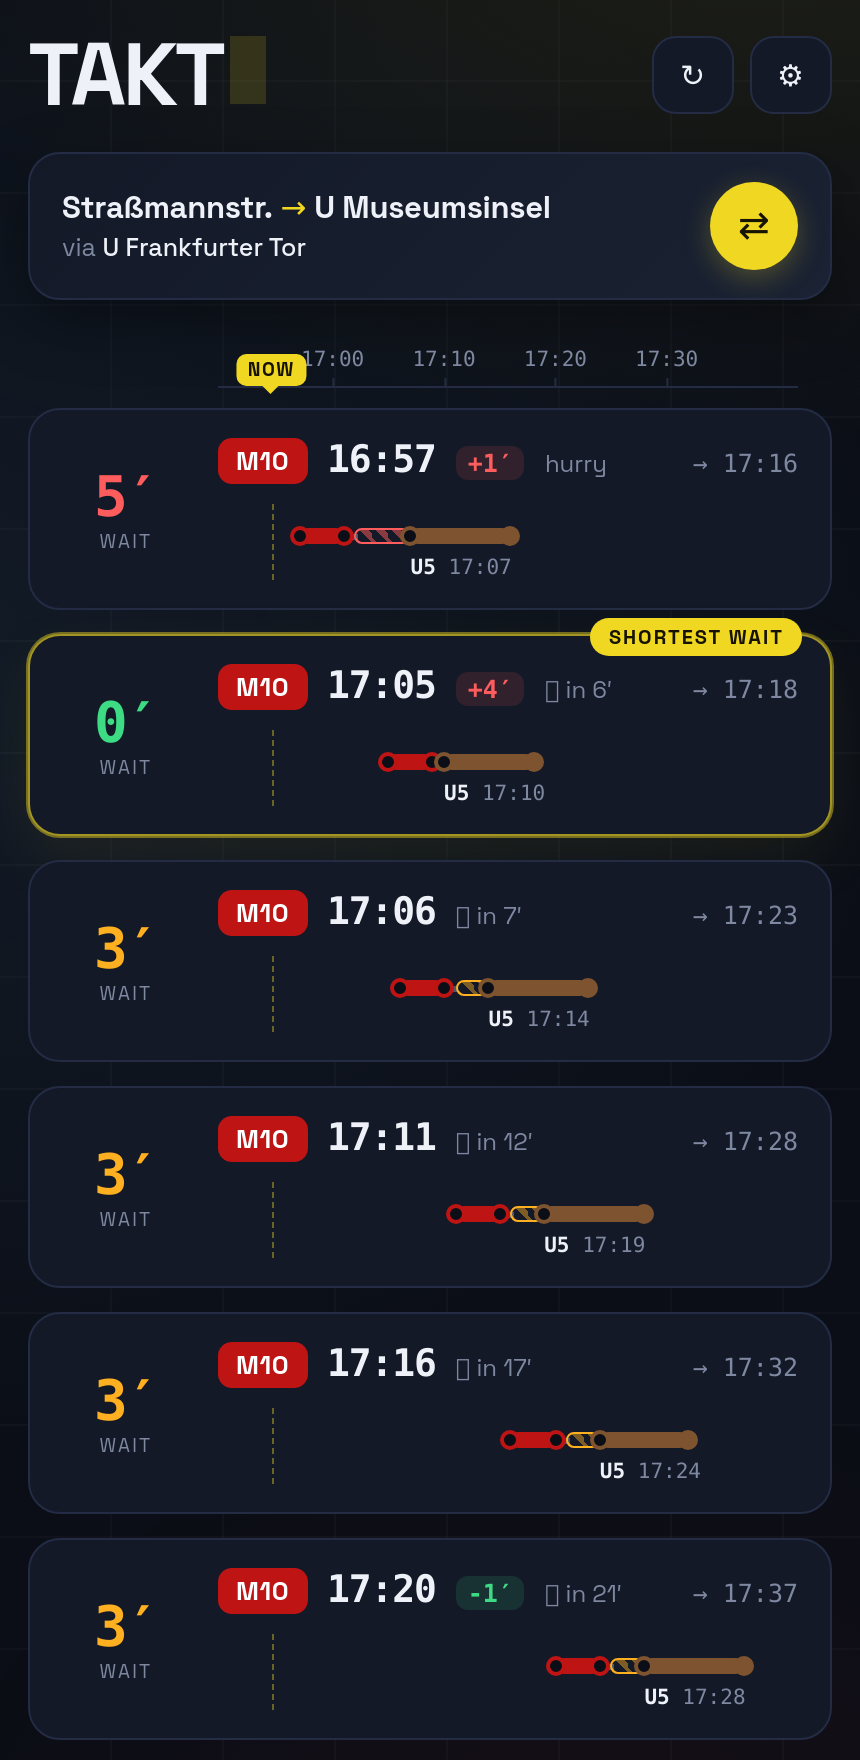
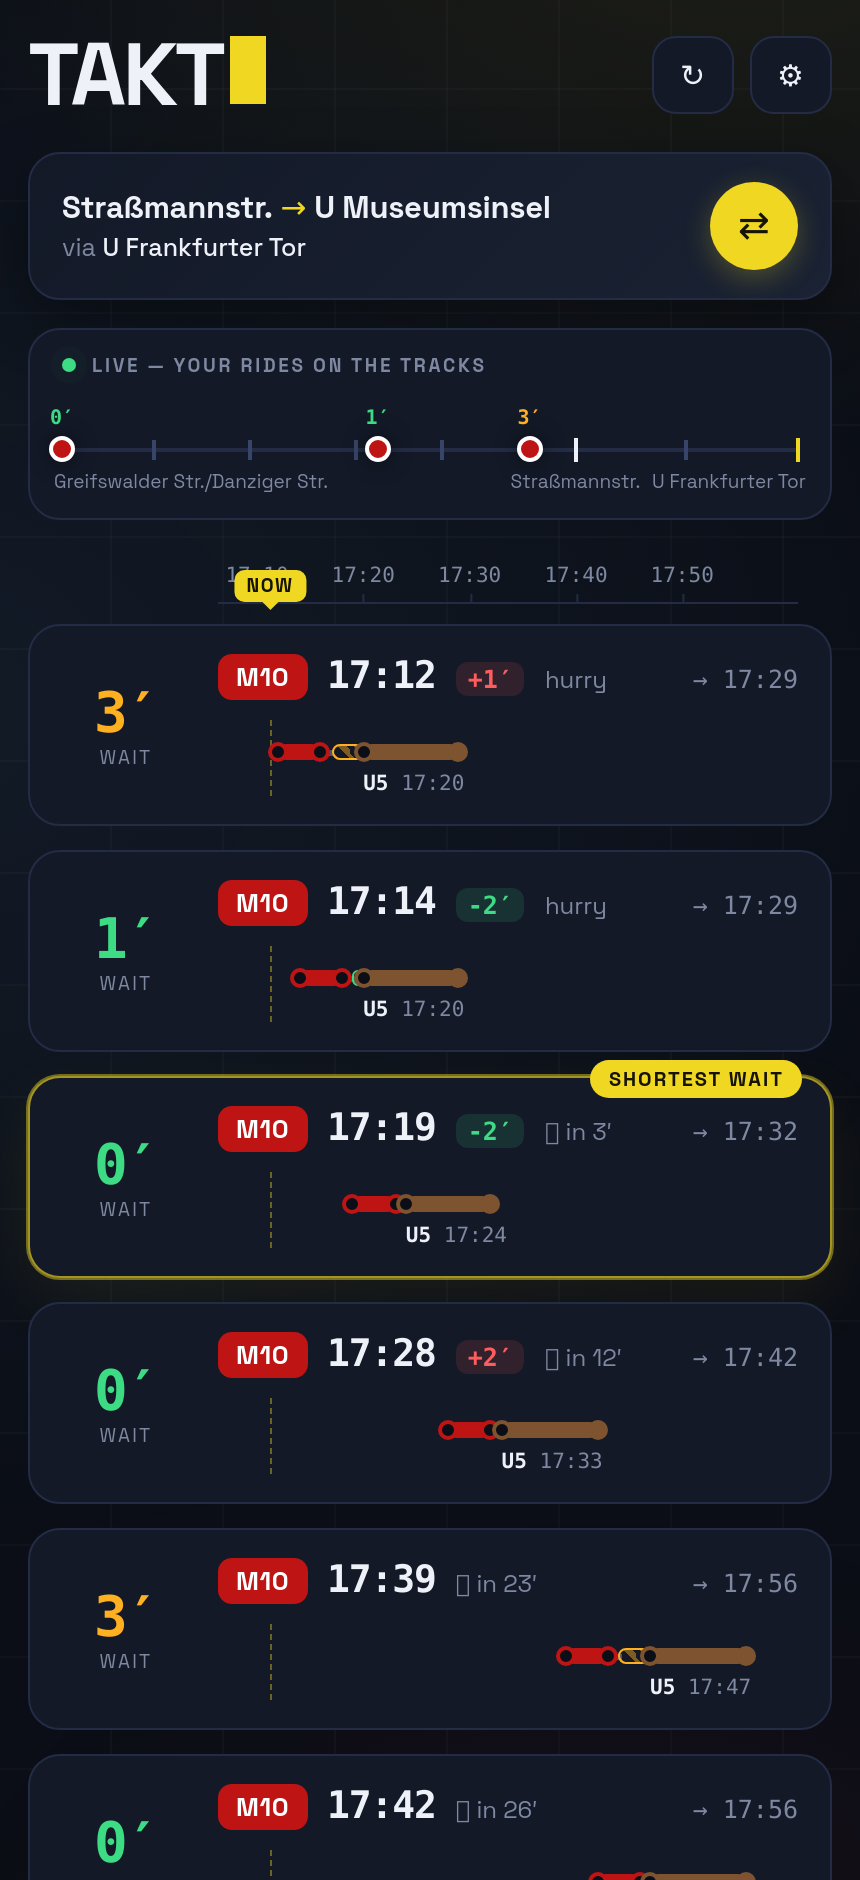
Add live vehicle radar and disruption alerts
Radar: the first leg's stop sequence becomes a schematic track; live
GPS positions from /radar (polled every 15s, bbox around the corridor)
are projected onto it. Only trips already on the board are shown, each
dot labelled with the transfer wait it yields.

Alerts: warning-type remarks from either leg render as an expandable
amber banner above the board, deduped, hints filtered out.

diff --git a/index.html b/index.html
@@ -89,6 +89,49 @@
   }
   .swap:active { transform: rotate(180deg) scale(.94); }
 
+  /* ———— disruption alerts ———— */
+  .alert {
+    background: rgba(255,176,32,.08); border: 1px solid rgba(255,176,32,.35);
+    border-radius: 12px; padding: 9px 13px; margin-bottom: 10px;
+    font-size: 12.5px; color: var(--amber); line-height: 1.5;
+  }
+  .alert summary { cursor: pointer; font-weight: 500; list-style: none; }
+  .alert summary::-webkit-details-marker { display: none; }
+  .alert p { color: var(--muted); margin-top: 7px; }
+
+  /* ———— live radar ———— */
+  .radar {
+    background: var(--card); border: 1px solid var(--line); border-radius: 16px;
+    padding: 12px 16px 4px; margin-bottom: 12px;
+  }
+  .radar-head {
+    font-size: 9.5px; font-weight: 700; letter-spacing: .14em; color: var(--muted);
+    display: flex; align-items: center; gap: 8px;
+  }
+  .rdot { width: 7px; height: 7px; border-radius: 50%; background: var(--green); animation: pulse 2s infinite; }
+  @keyframes pulse { 0%,100% { box-shadow: 0 0 0 0 rgba(61,220,132,.5); } 60% { box-shadow: 0 0 0 6px rgba(61,220,132,0); } }
+  .radar-track { position: relative; height: 58px; margin-top: 8px; }
+  .rrail { position: absolute; left: 0; right: 0; top: 27px; height: 2px; background: var(--line); border-radius: 1px; }
+  .rtick { position: absolute; top: 23px; width: 2px; height: 10px; background: #39446a; transform: translateX(-50%); }
+  .rtick.major { background: var(--text); height: 12px; top: 22px; }
+  .rtick.via2 { background: var(--yellow); }
+  .rlbl {
+    position: absolute; top: 38px; transform: translateX(-50%);
+    font-size: 9.5px; color: var(--muted); white-space: nowrap; max-width: 40%;
+    overflow: hidden; text-overflow: ellipsis;
+  }
+  .rlbl.first { transform: translateX(-4px); }
+  .rlbl.last { transform: translateX(calc(-100% + 4px)); }
+  .radar-dot {
+    position: absolute; top: 21px; width: 13px; height: 13px; border-radius: 50%;
+    border: 2px solid #fff; transform: translateX(-50%); z-index: 2;
+    transition: left 2.5s linear; box-shadow: 0 0 10px rgba(0,0,0,.5);
+  }
+  .radar-dot .wl {
+    position: absolute; top: -16px; left: 50%; transform: translateX(-50%);
+    font-size: 10px; font-weight: 700; font-family: var(--mono);
+  }
+
   /* ———— time ruler ———— */
   .ruler {
     /* left/right margins line the ruler up with the strand column inside the cards:
@@ -235,8 +278,8 @@
   footer a { color: var(--muted); }
 
   @media (prefers-reduced-motion: reduce) {
-    .blink, .relmin.urgent, .skel::after { animation: none !important; }
-    .card, .swap, .iconbtn { transition: none; }
+    .blink, .relmin.urgent, .skel::after, .rdot { animation: none !important; }
+    .card, .swap, .iconbtn, .radar-dot { transition: none; }
   }
 </style>
 </head>
@@ -303,6 +346,11 @@
         <div class="via">via <b id="lblVia"></b></div>
       </div>
       <button class="swap" id="btnSwap" title="Swap direction" aria-label="Swap direction">⇄</button>
+    </div>
+    <div id="alerts" style="display:none"></div>
+    <div id="radar" class="radar" style="display:none">
+      <div class="radar-head"><span class="rdot"></span> LIVE — YOUR RIDES ON THE TRACKS</div>
+      <div class="radar-track" id="radarTrack"></div>
     </div>
     <div id="ruler" class="ruler" style="display:none"></div>
     <div id="board" aria-live="polite"></div>
@@ -410,9 +458,9 @@ async function fetchBoard() {
   const walkT = config.walkT;
 
   const [dep1, arrVia, dep2, arrTo] = await Promise.all([
-    api(`/stops/${from.id}/departures`, { direction: via.id, duration: 70, remarks: false, results: 15 }),
+    api(`/stops/${from.id}/departures`, { direction: via.id, duration: 70, remarks: true, results: 15 }),
     api(`/stops/${via.id}/arrivals`,    { duration: 110, remarks: false, results: 100 }),
-    api(`/stops/${via.id}/departures`,  { direction: to.id, duration: 130, remarks: false, results: 40 }),
+    api(`/stops/${via.id}/departures`,  { direction: to.id, duration: 130, remarks: true, results: 40 }),
     api(`/stops/${to.id}/arrivals`,     { duration: 170, remarks: false, results: 120 }),
   ]);
 
@@ -462,7 +510,18 @@ async function fetchBoard() {
     row.leaveBy = walkStart > 0 && whenOf(d) ? addMin(whenOf(d), -walkStart) : null;
     rows.push(row);
   }
-  return { rows, from, to, via, walkT };
+
+  // disruption warnings on either leg (dedup; hints like "bicycle conveyance" are skipped)
+  const warn = new Map();
+  const collect = list => {
+    for (const it of list || [])
+      for (const rm of it.remarks || [])
+        if (rm.type === 'warning') warn.set(rm.id ?? rm.summary ?? rm.text, rm);
+  };
+  collect(leg1);
+  collect(rows.map(r => r.conn).filter(Boolean));
+
+  return { rows, from, to, via, walkT, warnings: [...warn.values()].slice(0, 3) };
 }
 
 /* ---------------- rendering ---------------- */
@@ -498,6 +557,19 @@ function renderBoard(data) {
   $('#lblFrom').textContent = shortName(data.from.name);
   $('#lblTo').textContent = shortName(data.to.name);
   $('#lblVia').textContent = shortName(data.via.name);
+
+  const al = $('#alerts');
+  if (data.warnings?.length) {
+    al.innerHTML = data.warnings.map(w => {
+      const strip = s => esc(String(s || '').replace(/<[^>]*>/g, ' ').replace(/\s+/g, ' ').trim());
+      const sum = strip(w.summary) || 'Service disruption';
+      const txt = strip(w.text).slice(0, 600);
+      return txt && txt !== sum
+        ? `<details class="alert"><summary>⚠ ${sum}</summary><p>${txt}</p></details>`
+        : `<div class="alert">⚠ ${sum}</div>`;
+    }).join('');
+    al.style.display = '';
+  } else { al.style.display = 'none'; }
 
   const board = $('#board');
   const ruler = $('#ruler');
@@ -628,6 +700,126 @@ function showSkeleton() {
   $('#board').innerHTML = '<div class="skel"></div>'.repeat(4);
 }
 
+/* ---------------- live vehicle radar ----------------
+   The first leg's route (a few stops upstream of the start stop, through to the
+   transfer station) becomes a schematic track; /radar GPS positions of exactly
+   the trips shown on the board are projected onto it, labelled with their wait.
+------------------------------------------------------ */
+let corridor = null, corridorKey = '', radarBusy = false;
+
+function resetRadar() {
+  corridor = null; corridorKey = '';
+  $('#radarTrack').innerHTML = '';
+  $('#radar').style.display = 'none';
+}
+
+async function ensureCorridor(data) {
+  const first = data.rows.find(r => !r.cancelled);
+  if (!first) { resetRadar(); return; }
+  const key = [data.from.id, data.via.id, first.dep.line?.name].join('|');
+  if (corridorKey === key && corridor) return;
+  try {
+    const t = await api(`/trips/${encodeURIComponent(first.dep.tripId)}`,
+      { lineName: first.dep.line?.name || '', stopovers: true, remarks: false });
+    const sos = (t.trip?.stopovers || []).filter(s => s.stop?.location);
+    const idx = id => sos.findIndex(s => s.stop.id === id || s.stop.station?.id === id);
+    const iFrom = idx(data.from.id), iVia = idx(data.via.id);
+    if (iFrom < 0 || iVia < 0 || iVia <= iFrom) { resetRadar(); return; }
+    const off = Math.max(0, iFrom - 5);
+    const k = Math.cos(sos[iFrom].stop.location.latitude * Math.PI / 180);
+    const stops = sos.slice(off, iVia + 1).map((s, i) => ({
+      name: shortName(s.stop.name),
+      lat: s.stop.location.latitude, lng: s.stop.location.longitude,
+      isFrom: off + i === iFrom, cum: 0,
+    }));
+    for (let i = 1; i < stops.length; i++) {
+      const p = stops[i - 1], q = stops[i];
+      q.cum = p.cum + Math.hypot((q.lng - p.lng) * k, q.lat - p.lat);
+    }
+    const total = stops[stops.length - 1].cum || 1;
+    for (const s of stops) s.frac = s.cum / total;
+    corridor = { stops, k };
+    corridorKey = key;
+    renderRadarTrack();
+    pollRadar();
+  } catch (e) { /* no corridor — panel stays hidden */ }
+}
+
+function renderRadarTrack() {
+  const st = corridor.stops;
+  let html = '<div class="rrail"></div>';
+  st.forEach((s, i) => {
+    const isVia = i === st.length - 1;
+    const left = (s.frac * 100).toFixed(2) + '%';
+    html += `<div class="rtick ${s.isFrom || isVia ? 'major' : ''} ${isVia ? 'via2' : ''}" style="left:${left}"></div>`;
+    if (i === 0 || s.isFrom || isVia) {
+      const cls = i === 0 ? 'first' : isVia ? 'last' : '';
+      html += `<div class="rlbl ${cls}" style="left:${left}">${esc(s.name)}</div>`;
+    }
+  });
+  $('#radarTrack').innerHTML = html;
+  $('#radar').style.display = '';
+}
+
+function projFrac(lat, lng) {
+  const st = corridor.stops, k = corridor.k;
+  let bd = Infinity, bf = 0;
+  for (let i = 0; i < st.length - 1; i++) {
+    const ax = st[i].lng * k, ay = st[i].lat, bx = st[i + 1].lng * k, by = st[i + 1].lat;
+    const px = lng * k, py = lat;
+    const dx = bx - ax, dy = by - ay, L2 = dx * dx + dy * dy || 1e-12;
+    const t = Math.max(0, Math.min(1, ((px - ax) * dx + (py - ay) * dy) / L2));
+    const d = Math.hypot(px - (ax + t * dx), py - (ay + t * dy));
+    if (d < bd) { bd = d; bf = st[i].frac + t * (st[i + 1].frac - st[i].frac); }
+  }
+  return bd * 111000 <= 650 ? bf : null;   // ignore vehicles > ~650 m off the corridor
+}
+
+async function pollRadar() {
+  if (!corridor || !lastData || radarBusy || document.visibilityState !== 'visible') return;
+  radarBusy = true;
+  try {
+    const lats = corridor.stops.map(s => s.lat), lngs = corridor.stops.map(s => s.lng);
+    const m = 0.004;
+    const res = await api('/radar', {
+      north: (Math.max(...lats) + m).toFixed(5), south: (Math.min(...lats) - m).toFixed(5),
+      west: (Math.min(...lngs) - m).toFixed(5), east: (Math.max(...lngs) + m).toFixed(5),
+      results: 80, duration: 0, frames: 0, polylines: false,
+    });
+    const wanted = new Map();
+    for (const r of lastData.rows) if (!r.cancelled) wanted.set(r.dep.tripId, r);
+    const track = $('#radarTrack');
+    const seen = new Set();
+    for (const mv of (res.movements || [])) {
+      const row = wanted.get(mv.tripId);
+      if (!row || !mv.location) continue;
+      const frac = projFrac(mv.location.latitude, mv.location.longitude);
+      if (frac == null) continue;
+      seen.add(mv.tripId);
+      let dot = track.querySelector(`.radar-dot[data-trip="${mv.tripId}"]`);
+      if (!dot) {
+        dot = document.createElement('div');
+        dot.className = 'radar-dot';
+        dot.setAttribute('data-trip', mv.tripId);
+        dot.innerHTML = '<span class="wl"></span>';
+        track.appendChild(dot);
+      }
+      dot.style.left = (frac * 100).toFixed(2) + '%';
+      dot.style.background = lineColor(mv.line);
+      dot.title = `${mv.line?.name || ''} — departs ${fmtTime(whenOf(row.dep))}, ${row.waitMin != null ? row.waitMin + '′ wait' : 'wait unknown'}`;
+      const wl = dot.querySelector('.wl');
+      if (wl && row.waitMin != null) {
+        wl.textContent = row.waitMin + '′';
+        wl.className = 'wl wtxt-' + waitClass(row.waitMin).slice(2);
+      }
+    }
+    for (const stale of track.querySelectorAll('.radar-dot')) {
+      if (!seen.has(stale.getAttribute('data-trip'))) stale.remove();
+    }
+  } catch (e) { /* transient radar errors are fine */ }
+  finally { radarBusy = false; }
+}
+
 async function refresh() {
   if (loading || !config) return;
   loading = true;
@@ -636,6 +828,8 @@ async function refresh() {
     const data = await fetchBoard();
     renderBoard(data);
     lastUpdated = new Date();
+    ensureCorridor(data);
+    pollRadar();
   } catch (e) {
     $('#ruler').style.display = 'none';
     $('#board').innerHTML = `<div class="msg error">Could not load live data.<br>${esc(e.message)}
@@ -738,6 +932,7 @@ $('#btnSave').addEventListener('click', () => {
   if (cfg.a.id === cfg.via.id || cfg.via.id === cfg.b.id) { alert('Start, transfer and destination must be different stops.'); return; }
   saveConfig(cfg);
   hadFirstPaint = false;
+  resetRadar();
   closeSettings();
 });
 $('#btnCancel').addEventListener('click', closeSettings);
@@ -755,6 +950,7 @@ $('#btnSwap').addEventListener('click', () => {
   reversed = !reversed;
   localStorage.setItem(LS_DIR, reversed ? '1' : '0');
   hadFirstPaint = false;
+  resetRadar();
   refresh();
 });
 $('#btnRefresh').addEventListener('click', refresh);
@@ -778,6 +974,7 @@ window.addEventListener('resize', () => {
     refresh();
   }
   setInterval(refresh, 60000);
+  setInterval(pollRadar, 15000);
   setInterval(updateNowMarkers, 8000);
   setInterval(tickUpdated, 5000);
 })();

diff --git a/README.md b/README.md
@@ -23,6 +23,11 @@ a glance.
   including your walk times
 - 📡 **Real-time** — delays, cancellations, and night-line fallbacks (when the U-Bahn stops,
   TAKT correctly offers the night bus); auto-refresh every 60 s and on screen wake
+- 🛰 **Live vehicle radar** — the exact rides on your board appear as moving dots on a
+  schematic of your first leg (real GPS via the HAFAS `/radar` endpoint, polled every 15 s),
+  each labelled with the wait it will give you at the transfer
+- ⚠️ **Disruption alerts** — line warnings affecting either leg show up as an expandable
+  amber banner above the board
 - 🔁 **Both directions** — one tap swaps the commute home
 - 🌍 **Fully generic** — any start/transfer/destination stop in the VBB network (tram, U-Bahn,
   S-Bahn, bus, ferry, regional) via live autocomplete; routes are shareable as links
@@ -58,6 +63,11 @@ well within its 100 req/min limit):
 All four run in parallel; real-time `when` is preferred, planned times are the fallback.
 The timeline scale is computed per refresh, re-laid-out on resize, and the NOW markers
 advance between refreshes.
+
+The live radar additionally fetches the first leg's stop sequence once (`GET /trips/{tripId}`)
+to build a geographic corridor, then polls `GET /radar` (bounding box around the corridor)
+every 15 s and projects each matching vehicle's GPS position onto the schematic track —
+only trips that are actually on your board are shown.
 
 ---
 